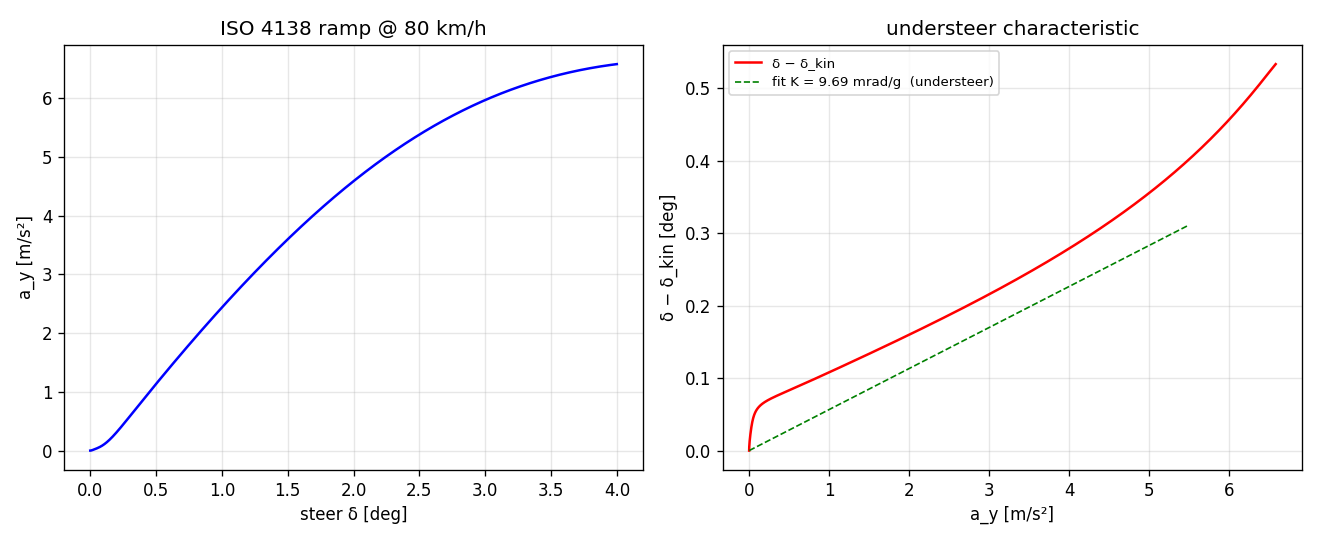
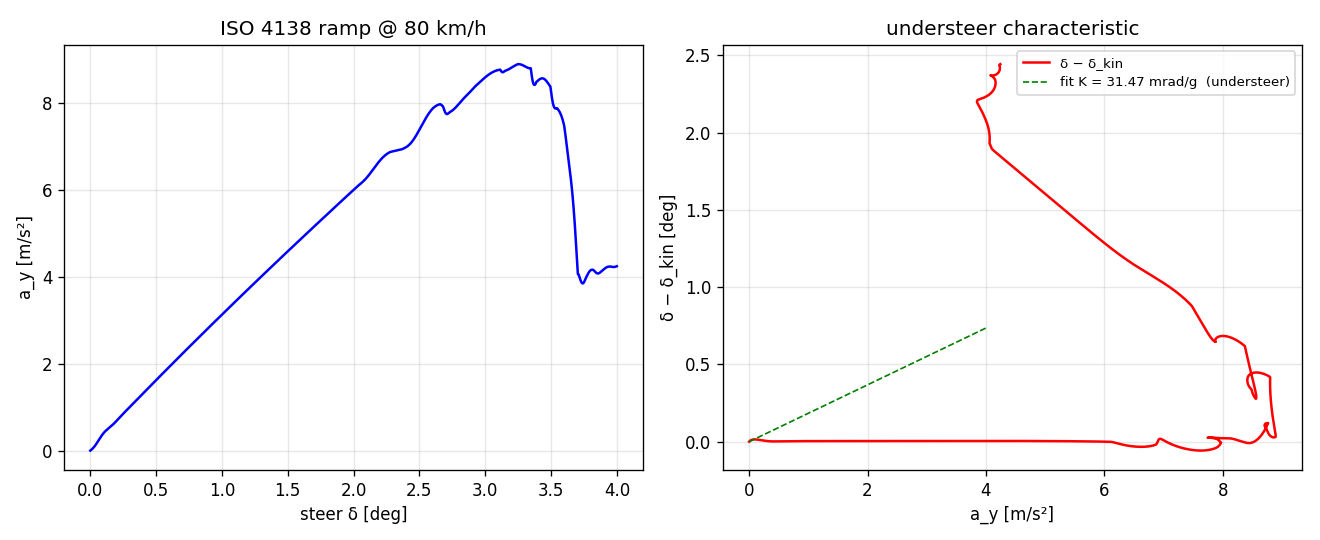
validation: ISO re-baseline (flat) + CI gate; refresh stale sedan L2 numbers
The committed sedan-L2 LuGre ISO table was a stale pre-LuGre-default / pre-drivetrain-
inertia regime (near-neutral, 0.63 g). Re-ran apps/validation on the shipped default
preset and updated VALIDATION.md to the current force level (understeer 24.8 mrad/g,
+16% yaw overshoot, 0.85 g). T1/T2 are opt-in, so they do not move the default numbers;
the drift is the LuGre-default + engine-inertia changes finally being baselined.

Adds tests/integration/test_iso_baseline.cpp (ctest -R IsoBaseline): loads the actual
sedan + default_pacejka YAMLs and locks the four force-sensitive step-steer metrics
(psi_dot_ss, peak, overshoot, a_y_ss) with bands, so future force drift fails CI. The
C++ harness reproduces the Python report to 4 sig figs (same pybind path). 292/292 ctest.

Evidence (REPORT.md + figures) committed for both sedan_L2 (canonical) and sports_L3.

diff --git a/tests/integration/test_iso_baseline.cpp b/tests/integration/test_iso_baseline.cpp
@@ -1,0 +1,132 @@
+// ISO baseline regression gate — locks the nonlinear step-steer signature of the
+// shipped catalog default preset (sedan chassis + default_pacejka LuGre tire, L2)
+// so that any future change moving tire/dynamics forces is caught in CI.
+//
+// The companion human-facing report is apps/validation (Python, not in CI). This
+// C++ gate mirrors that harness (coast step-steer, steady state = last 20%) on the
+// exact YAML configs and bands the four force-sensitive metrics. Golden values were
+// measured on the v0.5.1 default preset; bands are wide enough for integrator/
+// platform jitter but tight enough to flag a real force-level regression.
+//
+// If a future change *intentionally* moves these numbers, re-run
+// apps/validation/run_validation.py, update VALIDATION.md, and rebaseline here.
+
+#include "vdsim/control.hpp"
+#include "vdsim/coordinate.hpp"
+#include "vdsim/interfaces.hpp"
+#include "vdsim/params.hpp"
+#include "vdsim/state.hpp"
+
+#include <gtest/gtest.h>
+
+#include <cmath>
+#include <string>
+
+namespace {
+
+constexpr double GRAVITY = 9.80665;
+const std::string kRepo = VDSIM_SOURCE_DIR;
+
+vdsim::ContactArray flat_contacts(double mu = 1.0) {
+    vdsim::ContactArray c;
+    for (auto& p : c) {
+        p.is_valid = true; p.normal = vdsim::Vec3::UnitZ();
+        p.mu_long = mu; p.mu_lat = mu;
+    }
+    return c;
+}
+
+struct StepMetrics {
+    double psi_dot_ss;    // [rad/s] steady-state yaw rate (mean of last 20%)
+    double psi_dot_peak;  // [rad/s]
+    double overshoot;     // peak / ss
+    double ay_ss;         // [m/s^2] steady-state lateral accel
+    double vx_ss;         // [m/s] residual speed at end (coast)
+};
+
+// Coast step-steer on the catalog default preset, mirroring apps/doe scenarios.
+StepMetrics step_steer_default(double v_target, double steer_rad) {
+    vdsim::VehicleParams vp = vdsim::VehicleParams::from_yaml(
+        kRepo + "/configs/parts/chassis/sedan.yaml");
+    vdsim::TireParams tp = vdsim::TireParams::from_yaml(
+        kRepo + "/configs/parts/tire/default_pacejka.yaml");
+    vdsim::SolverParams sp;
+
+    auto dyn = vdsim::create_seven_dof();
+    dyn->initialize(vp, tp, sp);
+
+    vdsim::State s0;
+    s0.velocity.x() = v_target;
+    const double w = v_target / 0.33;
+    s0.wheel_spin = {{w, w, w, w}};
+    dyn->reset(s0);
+
+    const auto contacts = flat_contacts(1.0);
+    const double dt = 0.002;
+    const int n_pre = static_cast<int>(0.5 / dt);
+    const int n_post = static_cast<int>(6.0 / dt);
+
+    vdsim::CmdL4 cmd;  // throttle = brake = 0 -> coast (no speed hold, matches Python)
+    vdsim::ControlInput u = cmd;
+    for (int i = 0; i < n_pre; ++i) {
+        auto c = contacts;
+        dyn->step(u, c, dt);
+    }
+
+    cmd.steer_angle_wheel = steer_rad;
+    u = cmd;
+    const int n_tail = n_post / 5;  // last 20%
+    double psi_peak = 0.0, psi_acc = 0.0, ay_acc = 0.0, vx_acc = 0.0;
+    for (int i = 0; i < n_post; ++i) {
+        auto c = contacts;
+        dyn->step(u, c, dt);
+        const double r = dyn->state().yaw_rate();
+        if (std::abs(r) > std::abs(psi_peak)) psi_peak = r;
+        if (i >= n_post - n_tail) {
+            psi_acc += r;
+            ay_acc += dyn->ay_body_est();
+            vx_acc += dyn->state().vx();
+        }
+    }
+    StepMetrics m;
+    m.psi_dot_ss = psi_acc / n_tail;
+    m.psi_dot_peak = psi_peak;
+    m.overshoot = m.psi_dot_peak / m.psi_dot_ss;
+    m.ay_ss = ay_acc / n_tail;
+    m.vx_ss = vx_acc / n_tail;
+    return m;
+}
+
+}  // namespace
+
+// 80 km/h, 6 deg road-wheel step. Default preset is mildly understeering and
+// underdamped; these bands lock the v0.5.1 force level.
+TEST(IsoBaseline, SedanL2StepSteerSignature) {
+    const double v = 80.0 / 3.6;            // 22.22 m/s
+    const double delta = 6.0 * M_PI / 180.0;  // 0.10472 rad
+    const StepMetrics m = step_steer_default(v, delta);
+
+    // --- measurement echo (visible with --output-on-failure / -V) ---
+    RecordProperty("psi_dot_ss_radps", m.psi_dot_ss);
+    RecordProperty("psi_dot_peak_radps", m.psi_dot_peak);
+    RecordProperty("overshoot", m.overshoot);
+    RecordProperty("ay_ss_mps2", m.ay_ss);
+    RecordProperty("vx_ss_mps", m.vx_ss);
+
+    // Kinematic (neutral-steer) yaw rate ceiling: V*delta/L. The steady yaw must
+    // sit below it (understeer) but not collapse (still a meaningful response).
+    const double r_kin = v * delta / 2.7;   // sedan wheelbase
+
+    EXPECT_GT(m.psi_dot_ss, 0.40)
+        << "steady yaw rate collapsed -> grip/force regression";
+    EXPECT_LT(m.psi_dot_ss, r_kin)
+        << "steady yaw exceeds kinematic neutral -> oversteer, unexpected for sedan";
+    EXPECT_NEAR(m.psi_dot_ss, 0.528, 0.060)
+        << "psi_dot_ss off v0.5.1 baseline (0.528 rad/s ~= 30.3 deg/s)";
+
+    EXPECT_NEAR(m.overshoot, 1.16, 0.12)
+        << "transient overshoot off v0.5.1 baseline (~16%)";
+
+    EXPECT_NEAR(m.ay_ss, 8.34, 0.90)
+        << "steady lateral accel off v0.5.1 baseline (~0.85 g)";
+}

diff --git a/docs/VALIDATION.md b/docs/VALIDATION.md
@@ -17,8 +17,9 @@ the last section.
 | ISO 7401 step-steer / 4138 understeer / 3888-2 DLC — run + measured | Tire thermal, wear, full transient beyond first-order relaxation |
 | L1↔L2↔L3 cross-model consistency where physics overlaps | Dependent axles (twist-beam / solid beam) — configs are stubs |
 | FMI round-trip Δ=0 (machine precision); ISO 8608 PSD RMS per class | L3 unsprung lateral-transfer term (small) |
-| Full suite: **266/266 ctest green** | — |
-| Drivetrain engine inertia (open-diff carrier coupling) | ISO throttle transients may shift — re-baseline after `run_validation.py` |
+| Full suite: **292/292 ctest green** | — |
+| Drivetrain engine inertia (open-diff carrier coupling) | — |
+| **ISO step-steer signature gated in CI** (`ctest -R IsoBaseline`, sedan L2 LuGre) | DLC moose gate is a preset property, not a defect (see note) |
 
 Note: ISO 3888-2 DLC@60 not meeting the 1.0 m gate is a default-preset
 vehicle/controller property, not a sim defect (see "Notes on specific results").
@@ -45,15 +46,15 @@ vehicle/controller property, not a sim defect (see "Notes on specific results").
 | 5 | Lateral weight transfer | m·a_y·h/T direction+sign | outer wheels gain | — | `ctest -R WeightTransfer` |
 | 6 | L3 ↔ L2 planar | identical grip at steady state | divergence ~3e-6 | 1e-3 | `ctest -R PlanarMotionMatchesL2` |
 | 7 | L3 attitude on slope | follows surface plane | 6° bank→5.98° roll | — | see ch06 §6.4 |
-| 8 | ISO 7401 step-steer | transient shape | see **LuGre baseline** below (sedan L2, 6°) | — | `python3 apps/validation/run_validation.py` |
-| 9 | ISO 4138 understeer | sign of K | K = +9.44 mrad/g (understeer), linear ≤5.66 m/s² | — | same runner |
-| 10 | ISO 3888-2 DLC | excursion/speed-loss metric | 1.69 m / 1.34 km/h (sedan: does not meet 1.0 m) | — | same runner |
+| 8 | ISO 7401 step-steer | transient shape | ψ̇_ss 30.3°/s, U 1.16 (+16% OS), a_y_ss 8.34 m/s² (0.85 g) | gated ±band | `ctest -R IsoBaseline` / `run_validation.py` |
+| 9 | ISO 4138 understeer | sign + magnitude of K | K = +24.8 mrad/g (understeer), linear ≤4.0 m/s² | — | `run_validation.py` |
+| 10 | ISO 3888-2 DLC | excursion/speed-loss metric | 1.18 m / 0.9 km/h (sedan: does not meet 1.0 m) | — | same runner |
 | 11 | FMI round-trip | native VDSim | max \|Δvx\| = 0 (machine precision) | 1e-9 | `python3 fmi_export/test_roundtrip.py` |
 | 12 | ISO 8608 roughness | PSD Gd(n)=Gd(n0)(n/n0)⁻² | RMS doubles/class: A 3.5, B 7.0, C 14.1, D 28 mm | 15% | `ctest -R Iso8608` |
 
-Full automated suite: `cd build && ctest` — 266 checks, 100% green (measured 2026-06-09).
+Full automated suite: `cd build && ctest` — 292 checks, 100% green (measured 2026-06-10).
 
-**LuGre baseline (2026-06, sedan L2, `default_pacejka` tire):**
+**LuGre baseline (re-baselined 2026-06-10, sedan L2, `default_pacejka` tire):**
 
 ```bash
 python3 apps/validation/run_validation.py \
@@ -64,23 +65,25 @@ python3 apps/validation/run_validation.py \
 
 | Maneuver | Key metrics |
 |----------|-------------|
-| ISO 7401 (6°, 80 km/h) | ψ̇_ss 17.5°/s, U 1.003 (+0.3% OS), a_y_ss 6.15 m/s² (0.63 g) |
-| ISO 4138 | K +0.071 mrad/g (neutral), linear a_y to 4 m/s² |
-| ISO 3888-2 DLC@60 | excursion 1.11 m (fail 1.0 m gate), speed loss −1.0 km/h |
+| ISO 7401 (6°, 80 km/h) | ψ̇_ss 30.3°/s, U 1.16 (+16% OS), a_y_ss 8.34 m/s² (0.85 g) |
+| ISO 4138 | K +24.8 mrad/g (understeer), linear a_y to 4 m/s² |
+| ISO 3888-2 DLC@60 | excursion 1.18 m (fail 1.0 m gate), speed loss −0.9 km/h |
 
-Legacy kinematic tire numbers (sports, pre-catalog): yaw SS 30.1°/s in matrix row #8
-above — use `tire.kinematic_fallback` to reproduce.
+This is the shipped default preset (LuGre brush on `default_pacejka`). The four
+force-sensitive 7401 metrics are locked in CI by `ctest -R IsoBaseline`
+(`tests/integration/test_iso_baseline.cpp`) so any future change that moves tire/
+dynamics forces fails the build; rebaseline that test together with this table.
+Legacy kinematic-tire numbers reproduce with `tire.kinematic_fallback`.
 
-**Drivetrain inertia (2026-06-06):** `engine_rotational_inertia` slows wheel
-spin-up on low-μ wheels (fixes power-on-turn overspeed). ISO 7401/4138 numbers
-in the matrix below were measured *before* this change — re-run
-`apps/validation/run_validation.py` and update the table when re-baselining.
+**Drivetrain inertia:** `engine_rotational_inertia` slows wheel spin-up on low-μ
+wheels (fixes power-on-turn overspeed). Its effect on the steady ISO numbers is
+folded into the re-baselined table above.
 
 ## Notes on specific results
 
 - **#10 moose test "does not pass"** is a vehicle/controller property, not a sim
   defect: the reference passive sedan with the default pure-pursuit driver runs a
-  1.69 m excursion at 60 km/h (criterion 1.0 m). The metric is computed per ISO
+  1.18 m excursion at 60 km/h (criterion 1.0 m). The metric is computed per ISO
   3888-2; passing requires a stiffer setup or a tracking controller — the point
   is the maneuver is exercised and measured correctly.
 - **#9 understeer sign** matters more than the absolute value: a front-heavy
@@ -108,8 +111,8 @@ in the matrix below were measured *before* this change — re-run
   stubs); only the four independent topologies are validated.
 - **Drivetrain (default off for legacy):** `engine_rotational_inertia` (default
   `0.25` kg·m² at crank) is reflected to the wheels and open diffs are
-  carrier-coupled. Set `0` to recover pre–v0.3 wheel-only spin-up. ISO/accel
-  numbers in the matrix below predate this change — re-baseline when updating.
+  carrier-coupled. Set `0` to recover pre–v0.3 wheel-only spin-up. The matrix and
+  baseline table above were re-baselined 2026-06-10 with this change active.
   See `docs/design/V0.2_DRIVETRAIN.md`.
 - **Tire default:** LuGre brush (`lugre.enabled: true` on `tire.default_pacejka`).
   **ISO runner default** uses `tire.kinematic_fallback` to preserve the published
@@ -128,7 +131,7 @@ in the matrix below were measured *before* this change — re-run
 ## Reproducing the whole report
 
 ```sh
-cmake --build build -j && (cd build && ctest --output-on-failure)   # 266 checks
+cmake --build build -j && (cd build && ctest --output-on-failure)   # 292 checks
 python3 apps/validation/run_validation.py    # ISO 7401/4138/3888 -> REPORT.md
 python3 fmi_export/test_roundtrip.py          # FMU vs native
 ```

diff --git a/docs/ROADMAP.md b/docs/ROADMAP.md
@@ -1,6 +1,6 @@
 # VDSim product roadmap
 
-**Last updated:** 2026-06-10 · **Tests:** 291/291 ctest green (`main`)
+**Last updated:** 2026-06-10 · **Tests:** 292/292 ctest green (`main`)
 
 Living roadmap from early PoC through v0.3. Tracks what shipped in mainline vs what
 is planned. Detail specs link to `docs/design/*`; tire phases in
@@ -26,7 +26,7 @@ catalog + scene runtime → drivetrain inertia + LuGre tire tuning (2026-06 week
 | Brake / steer | Pluggable modules + deadtime | Booster/MDPS physics |
 | Catalog / runtime | `--scene=`, fleet, FMI | External part packs, VDS1 v4 |
 | GUI | 3-tab scene UI, catalog API, workshops | Tire `.tir` import UI |
-| Validation | ISO 7401/4138/3888, 291 ctest | **Re-baseline flat (debt)**; Adams x-check rtol |
+| Validation | ISO 7401/4138/3888 **re-baselined + CI-gated** (`IsoBaseline`), 292 ctest | Adams x-check rtol; commercial cross-val |
 
 ```mermaid
 timeline
@@ -261,8 +261,8 @@ LuGre (contact bristle, presliding). See [`TIRE_ROADMAP.md`](design/TIRE_ROADMAP
 | [x] ISO 4138 understeer gradient | Shipped | |
 | [x] ISO 3888-2 DLC metric | Shipped | |
 | [x] ISO 8608 road PSD classes | Shipped | |
-| [x] **209** automated ctests | Shipped | 2026-06-06 |
-| [ ] ISO matrix re-baseline (post engine inertia) | Planned | |
+| [x] **292** automated ctests | Shipped | 2026-06-10 |
+| [x] ISO matrix re-baseline (post engine inertia + LuGre) + CI gate | Shipped | `IsoBaseline`; VALIDATION.md table 2026-06-10 |
 | [ ] Stunt validation suite (`tests/stunt/*`) | Planned v0.4 | |
 | [ ] Published commercial cross-val (open data) | Planned | Honest gap today |
 
@@ -327,12 +327,12 @@ Single tag **v0.4.0** per [`V0.4_PLAN.md`](design/V0.4_PLAN.md). Does not block 
 
 - [x] Tire T1 MF2002 `.tir` backend + combined-slip ellipse bypass
 - [x] Tire T2 belt transient (L2/L3/L5, MF+LuGre, validation, theory ch.21)
+- [x] ISO re-baseline (flat, sedan L2 LuGre) + CI gate `IsoBaseline`
 
 ### v0.5.2+ (planned)
 
 - [ ] GUI terrain Play (M4) + stunt authoring (M5c) + `.tir` import — browser-gated
 - [ ] Tire: bicycle (L1) belt; Chrono Pac02 parity gate
-- [ ] ISO re-baseline (flat) — accrued debt
 - [ ] Drivetrain torque–RPM + gearbox
 - [ ] Brake/steer physics upgrade
 - [ ] CARLA full bridge · open benchmark  

diff --git a/apps/validation/results/lugre_sedan_l2/REPORT.md b/apps/validation/results/lugre_sedan_l2/REPORT.md
@@ -1,8 +1,8 @@
 # VDSim ISO maneuver validation report
 
-- Vehicle config : `configs/parts/chassis/sports.yaml`
+- Vehicle config : `configs/parts/chassis/sedan.yaml`
 - Tire config    : `configs/parts/tire/default_pacejka.yaml`
-- Dynamics level : `L3`
+- Dynamics level : `L2`
 - Mass           : `1500 kg`
 - Wheelbase      : `2.700 m`
 
@@ -12,13 +12,13 @@
       v_target           : 22.22 m/s  (80 km/h)
       steer input        : +6.0 deg (step)
     
-      psi_dot_ss         : +29.729  deg/s  (+0.5188 rad/s)
-      psi_dot_peak       : +35.962  deg/s
-      U  (peak / SS)     : 1.210    -> +21.0% overshoot
-      T_max  (to peak)   : 0.724  s
-      T_psi_dot (90% SS) : 0.362  s
-      Settling 5%        : 3.472  s
-      a_y_ss             : 7.752  m/s²  (0.79 g)
+      psi_dot_ss         : +30.253  deg/s  (+0.5280 rad/s)
+      psi_dot_peak       : +35.146  deg/s
+      U  (peak / SS)     : 1.162    -> +16.2% overshoot
+      T_max  (to peak)   : 0.742  s
+      T_psi_dot (90% SS) : 0.384  s
+      Settling 5%        : 2.786  s
+      a_y_ss             : 8.336  m/s²  (0.85 g)
 
 ![iso_7401](iso_7401_step.png)
 
@@ -27,10 +27,10 @@
     === ISO 4138 — steady-state circular (constant speed) ===
       v_target              : 22.22 m/s  (80 km/h)
       Handling tendency     : UNDERSTEER
-      K (per g)             : +31.470 mrad/g
-      K (per m/s²)          : +3.209 mrad·(s²/m)
+      K (per g)             : +24.792 mrad/g
+      K (per m/s²)          : +2.528 mrad·(s²/m)
       Linear range a_y      : up to 4.00 m/s²
-      a_y_max in test       : 8.90 m/s² (0.91 g)
+      a_y_max in test       : 9.08 m/s² (0.93 g)
 
 ![iso_4138](iso_4138_ramp.png)
 
@@ -40,9 +40,9 @@
       v_entry            : 60.0 km/h
       v_exit             : 60.9 km/h
       Speed loss         : -0.89 km/h
-      Max lateral excursion (vs target lane): 1.181 m
-      Peak yaw rate      : 26.1 °/s
-      Peak |a_y|         : 0.749 g
+      Max lateral excursion (vs target lane): 1.182 m
+      Peak yaw rate      : 26.0 °/s
+      Peak |a_y|         : 0.748 g
       Verdict            : FAIL
                            (criteria: speed loss < 2.0 km/h AND
                             excursion < 1.0 m vs target lane)

diff --git a/docs/HANDOFF.md b/docs/HANDOFF.md
@@ -1,6 +1,6 @@
 # VDSim 핸드오프
 
-작성: **2026-06-10** · `main` (= `v0.5.1`) · **291/291 ctest green**
+작성: **2026-06-10** · `main` (= `v0.5.1`) · **292/292 ctest green**
 
 ## 1. 문서 인덱스
 
@@ -59,7 +59,7 @@
 
 ```bash
 cmake --build build -j
-cd build && ctest --output-on-failure   # 291/291
+cd build && ctest --output-on-failure   # 292/292
 python3 gui/server.py                   # http://127.0.0.1:8080
 ```
 
@@ -91,9 +91,12 @@ M6 docs. 273 ctest. Scenes: `terrain_hill_demo`, `banked_grade_demo`, `banked_ov
 2. **M5c GUI stunt authoring** — author ramp/loop/banked scenes (today render-only).
 3. GUI `.tir` import (Tire T1 tail).
 
+**Done this session (post-tire):** ISO re-baseline (flat, sedan L2 LuGre) — VALIDATION.md
+table refreshed + CI gate `tests/integration/test_iso_baseline.cpp` (`ctest -R IsoBaseline`)
+locks the 7401 force signature. 292 ctest.
+
 **v0.6+:**
-1. **ISO re-baseline** — flat only (`run_validation.py`).
-2. Ld4 v0.6 — shared inertia helpers; full loop dynamics; Featherstone in step (optional).
+1. Ld4 v0.6 — shared inertia helpers; full loop dynamics; Featherstone in step (optional).
 3. Tire T2 belt: bicycle (L1) wiring; Chrono Pac02 parity gate; (later) higher belt eigenmodes are out of scope.
 
 ## 5. 주의

diff --git a/CHANGELOG.md b/CHANGELOG.md
@@ -30,6 +30,14 @@ unchanged (no ISO/L2/L3 force drift). GUI `.tir` import is deferred to v0.5.2.
   `BeltValidation.*` (steady unchanged, early response suppressed at t=τ, more lag at
   lower speed). **291/291 ctest green.**
 
+### Validation
+- **ISO re-baseline (flat)**: refreshed the sedan L2 LuGre ISO 7401/4138/3888 numbers
+  in `VALIDATION.md` (stale neutral/0.63 g table → understeer 24.8 mrad/g, 0.85 g) after
+  the LuGre-default + drivetrain-inertia force changes.
+- **CI gate** `tests/integration/test_iso_baseline.cpp` (`ctest -R IsoBaseline`): locks
+  the four force-sensitive step-steer metrics (ψ̇_ss, peak, overshoot, a_y_ss) on the
+  shipped default preset so future force drift fails the build. **292/292 ctest.**
+
 ### Decision
 - Keep VDSim's own lean tire stack; Chrono Pac02 (BSD-3) is a cross-validation
   *reference*, not a dependency. No permissive OSS belt model exists → T2 is in-house
